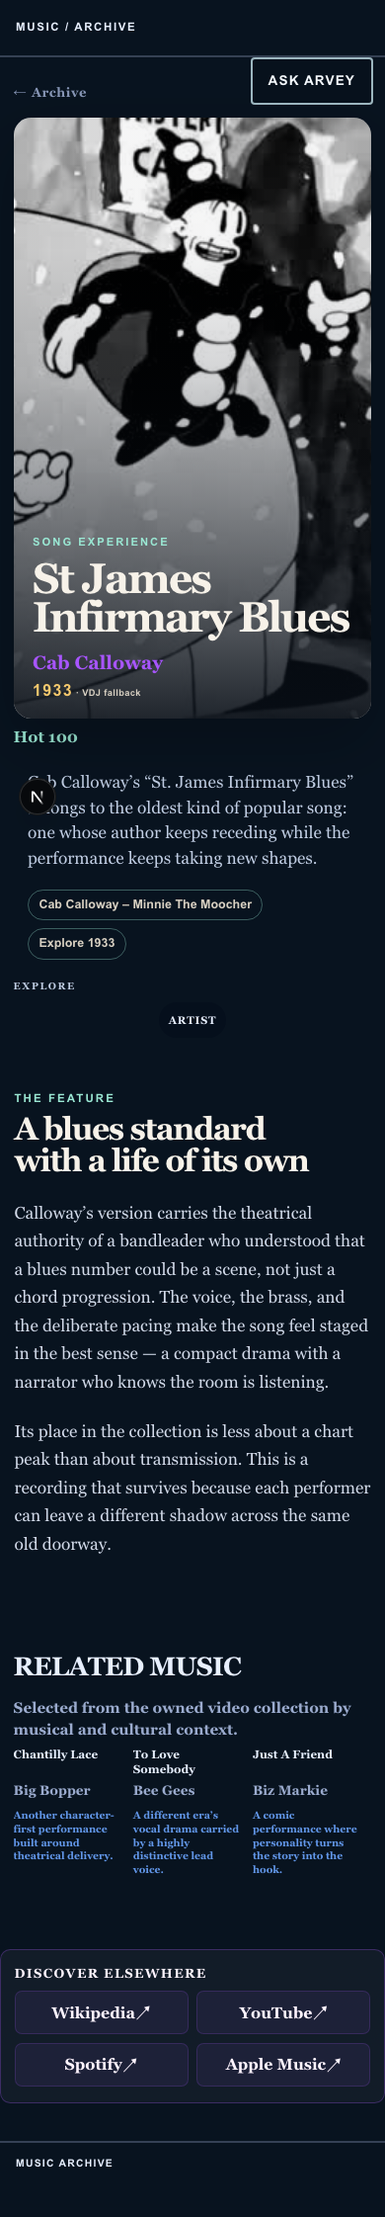
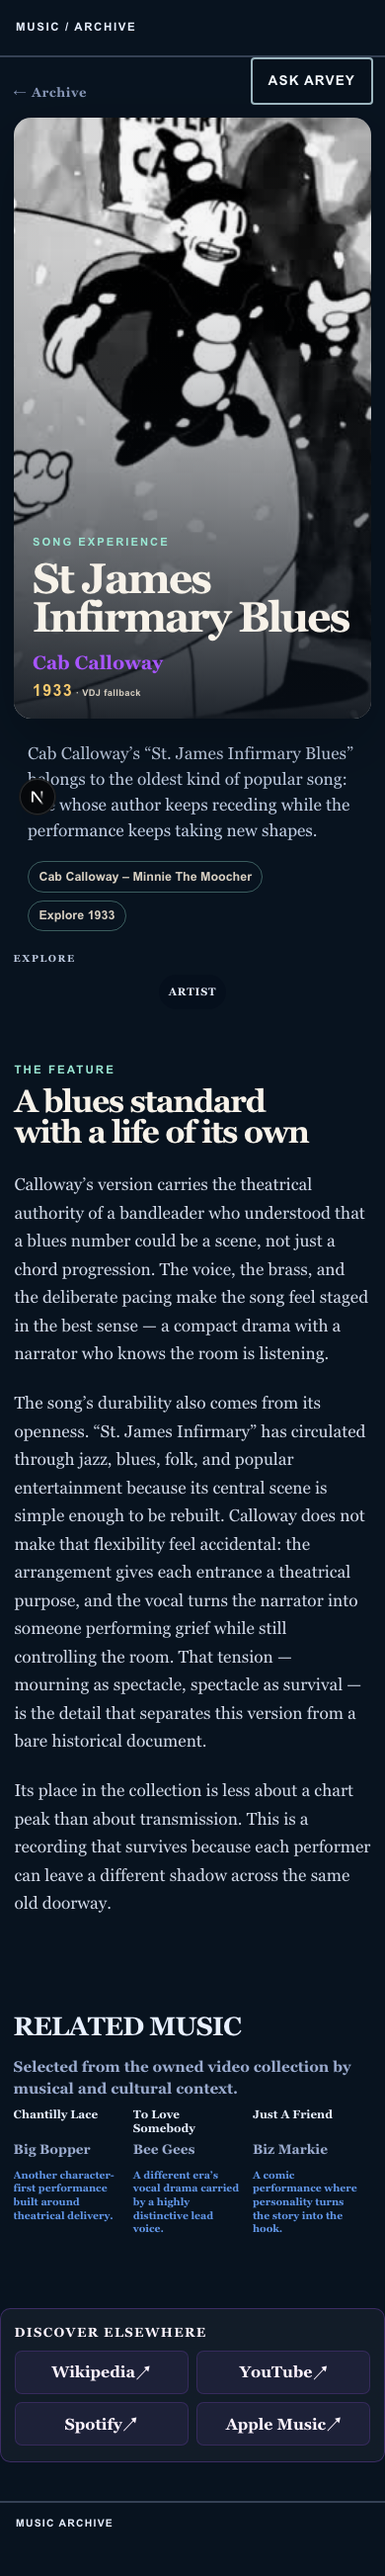
Deepen 25-song editorial features

diff --git a/tools/research/build-editorial-diversity-25.ts b/tools/research/build-editorial-diversity-25.ts
@@ -44,6 +44,34 @@ const SEEDS: Record<string, Seed> = {
   RVTR013681: { headline: "The Applebee’s song that escaped the commercial", lede: "Walker Hayes’s “Fancy Like” became a case study in how a small, specific image can become a national chorus once listeners decide to carry it.", middle: "Its relaxed delivery and conversational details make the song feel less like a grand country statement than a family joke that happened to find a beat. The viral dance and restaurant reference were not separate from the song’s design; they were evidence of how easily the hook invited participation.", close: "The record’s story is not that the internet changed the song. It is that the song left enough room for the internet to add its own scene." },
 };
 
+const DEPTH_EXPANSIONS: Record<string, string> = {
+  RVTR160225: "The song’s durability also comes from its openness. “St. James Infirmary” has circulated through jazz, blues, folk, and popular entertainment because its central scene is simple enough to be rebuilt. Calloway does not make that flexibility feel accidental: the arrangement gives each entrance a theatrical purpose, and the vocal turns the narrator into someone performing grief while still controlling the room. That tension — mourning as spectacle, spectacle as survival — is the detail that separates this version from a bare historical document.",
+  RVTR952686: "The record’s small invention is to make the listener a listener on the other end of the call. The Big Bopper’s interruptions and vocal poses create an imaginary conversation without needing a second singer, and the repeated address keeps the scene moving. In 1958, that was a sharp way to make a three-minute single feel like a miniature performance. The hook is catchy, but the real memory is the character: an entertainer who knows that a little overstatement can make a private flirtation public.",
+  RVTR979650: "Berry’s achievement is not only that he wrote a memorable guitar part. He made the musician’s emergence the plot. The opening image, the hard-driving rhythm, and the repeated name all point toward a world in which a player can be recognized by sound before anyone knows his story. That is why the song has worked as both autobiography and myth. It gives rock and roll a birthplace, then leaves the door open for every later guitarist to imagine walking through it.",
+  RVTR223139: "The vocal is the evidence. Twitty does not sing the title as a philosophical shrug; he sings it as someone trying to persuade himself that the relationship is unreal. That emotional insistence gave the song a life beyond its billing and helped reveal the dramatic force that would later define his country career. The arrangement stays direct enough for the melody to remain visible, but the voice keeps making the situation more desperate than the words alone suggest.",
+  RVTR251858: "Hazlewood’s original point of view was part of the song’s story, because Sinatra’s recording changes the center of gravity. Her phrasing is cool without being detached, and the clipped delivery makes every command sound already decided. The track’s famous boots and strut are therefore not decoration added after the fact. They are the visual translation of the vocal: an arrangement that walks forward because the singer has stopped negotiating.",
+  RVTR025701: "White’s details are vivid without turning the people in the song into a travel brochure. The repeated name, the swamp-country setting, and the narrator’s amused observation create a place that feels heard rather than explained. His rhythmic guitar keeps the story from becoming a spoken monologue, while the groove gives the track the loose authority of a band that could stretch the scene onstage. The single’s pop reach came from that exact combination: local color carried by a universal beat.",
+  RVTR604727: "The song’s history makes that restraint especially revealing. The Gibb brothers wrote it for Otis Redding, and the composition carries the scale of a soul plea even when the Bee Gees sing it themselves. Their version is not trying to outshout the emotion. The harmony rises around the central request, making vulnerability sound arranged, deliberate, and shared. It is a reminder that the group’s later dance-era identity was only one chapter in a much wider vocal vocabulary.",
+  RVTR347287: "Seger’s autobiographical details never become a diary entry because the song keeps changing its distance from the past. The teenage couple, the borrowed car, and the summer heat are close enough to touch, then the chorus lifts them into memory. The studio version understands that movement. It lets the band make the recollection feel larger without polishing away the awkwardness that gives it credibility. The song is nostalgic, but it is nostalgic about bodies, mistakes, and weather — not just youth as a slogan.",
+  RVTR572817: "Even the opening is a piece of storytelling. The bass figure, percussion, and studio effects arrive before the full band, as if the listener has entered a room already occupied by an argument. That patience lets the groove establish character before the lyric explains anything. The track then keeps its tension by refusing to become frantic. Aerosmith sounds dangerous because the players are in control of the machinery, not because they are rushing through it.",
+  RVTR086340: "Knopfler’s lyric notices the musicians who are happy to remain local, and his guitar adopts the same modesty. The solo is virtuosic, but it speaks in sentences rather than fireworks, answering the song’s characters instead of abandoning them. That balance helped the record cross from club observation to international hit without turning its subjects into caricatures. The Sultans remain in their corner of the room; the listener is simply invited to hear why the corner matters.",
+  RVTR521270: "The song’s most effective device is the exchange itself. Mouth’s bright lead and MacNeal’s answering presence make the chorus feel like a social action rather than a statement delivered from a stage. That quality explains why the record can seem almost weightless while remaining carefully constructed: the melody is simple, but the arrangement keeps handing the listener a place to respond. Its charm is not empty cheerfulness. It is the sound of pop music making participation easy.",
+  RVTR285085: "The video makes the same argument through comedy. Chevy Chase’s exaggerated lip-syncing turns Simon’s self-serious traveler into a character who can be teased, while Simon’s own backing-vocal role adds another layer to the joke. Behind the humor is a serious musical exchange: the record’s rhythmic vocabulary reflects the South African collaborations that shaped Graceland. The song’s worldliness works because it is audible in the groove, not announced as a credential.",
+  RVTR417030: "The famous drum entrance is often detached from its setting, but the setting is the point. Collins built the track around atmosphere, and the programmed textures leave the vocal suspended between confession and accusation. The listener is made to wait without being told exactly what is coming. When the drums finally break through, they do not solve the song’s ambiguity; they convert it into a physical event. Production becomes narrative here: withholding, pressure, release.",
+  RVTR792762: "Its studio precision is easiest to hear in the transitions. Parts appear, reinforce one another, and then make room for the chorus to feel inevitable. The song’s imagined landscape has often invited debate, but the recording’s real subject is construction: how a band can use percussion, vocal layers, and keyboard color to make a pop single feel like a journey. The enormous chorus is not a lucky overflow. It is the result of many controlled decisions arriving at once.",
+  RVTR478078: "The track’s groove is borrowed from funk, but the performance turns repetition into an existential device. Byrne keeps describing ordinary possessions and routines as if he has discovered them after the fact, while the band holds him inside the same circular motion. The video intensifies that idea with a body that seems to be learning gestures from memory. Music, movement, and lyric all ask the same question: is this life being chosen, or merely inherited?",
+  RVTR435218: "Perry’s writing is unusually effective because the question remains larger than the singer’s explanation. The verses gather frustration, the chorus opens into a communal shout, and the arrangement gives Howard’s voice room to sound unprocessed in the emotional sense. That openness helped the song travel between alternative radio, pop audiences, and karaoke rooms. Each setting can supply its own answer, while the record keeps its original uncertainty intact.",
+  RVTR472172: "The band’s live background is audible in the way the parts leave one another room. The guitar hook is bright but not glossy, and the vocal sounds like a person making a case rather than delivering a finished slogan. That looseness helped the song survive the jump from club culture to mass radio. It is polished enough to be unforgettable, but not so polished that the musicians disappear behind the arrangement.",
+  RVTR143275: "The Mozart costume in the video captures the record’s larger joke about performance. Biz is willing to look ridiculous, sing badly on purpose, and still make the emotional stakes unmistakable. The production leaves space for those choices, so the song feels like a personality refusing the normal rules of rap-star presentation. Under the comic surface is a precise pop instinct: the chorus is built so anyone who has heard an implausible explanation can sing the disbelief back.",
+  RVTR269180: "The brothers’ relationship is part of the recording’s texture. The guitar does not arrive as a separate showcase from the vocal; it feels like another member of the conversation, answering and lifting the melody. That is why the song’s mixture of styles never sounds like a checklist. The influences are embedded in how the band plays together. “Heaven” can enter mainstream radio without abandoning the intimacy of musicians who learned the language at home.",
+  RVTR528167: "The track also marks a deliberate shift in how Madonna’s voice functions. She does not need to narrate a character or build a conventional verse-to-chorus confession; the repeated command is enough. The production’s clipped electronics turn repetition into pressure, while the vocal keeps the surface playful. That combination makes the song feel both minimal and theatrical. The club is not merely where the record belongs. The club is the record’s subject and its stage.",
+  RVTR353865: "The song’s compression is part of its force. Rather than explaining every side of the relationship, the verses give just enough friction for the chorus to feel like an eruption. The guitars then widen the sound without softening the accusation. That architecture made the record unusually legible on first listen: the conflict is immediate, the hook is physical, and the listener can occupy the chorus before knowing every detail behind it.",
+  RVTR669909: "Stapleton’s performance makes the song’s history audible without turning it into a lecture. The melody already carries country soul, and the spacious arrangement lets small changes in phrasing do the dramatic work. A note can sound grateful, guarded, or exhausted depending on how long he holds it. The result is a cover that behaves like a lived experience. Its success came not from disguising the older song, but from giving its emotional balance a new center.",
+  RVTR311683: "The instructional quality is crucial. Brown does not bury the invitation inside a complicated arrangement; he makes the steps and the refrain easy to remember, then lets the listener become part of the spectacle. That design connected the song to a moment when a phone camera could turn a private dance into distribution. The record’s cleverness is therefore structural. It understands that a participatory hit must leave room for people who were not in the studio.",
+  RVTR273312: "Howard’s vocal contains both strain and command, which keeps the song from becoming a simple reassurance. The band answers her with a thick, patient groove: guitars and drums create forward motion while the melody keeps reaching for balance. That tension is what makes the title feel earned. “Hold On” is not advice offered from a safe distance. It is a demand made from inside the difficulty, with the music supplying enough force to continue.",
+  RVTR013681: "The song’s modesty is what made the phenomenon legible. The luxury in the lyric is not a fantasy yacht; it is a familiar meal, a shared joke, a small night made memorable by who is there. When the dance spread, listeners were not just repeating a marketing phrase. They were supplying their own version of that ordinary pleasure. The hook became large because its world stayed small enough for almost anyone to enter."
+};
+
 const RELATED: Record<string, Array<{ rvtr: string; method: string; reason: string }>> = {
   RVTR160225: [{ rvtr: "RVTR952686", method: "contextual", reason: "Another character-first performance built around theatrical delivery." }, { rvtr: "RVTR604727", method: "contextual", reason: "A different era’s vocal drama carried by a highly distinctive lead voice." }, { rvtr: "RVTR143275", method: "contextual", reason: "A comic performance where personality turns the story into the hook." }],
 };
@@ -67,7 +95,7 @@ async function main() {
     try { pkg = JSON.parse(await readFile(join(PACKAGE_ROOT, `${rvtr}.json`), "utf8")); } catch { /* collector packet may not exist yet */ }
     const seed = SEEDS[rvtr];
     const facts = (pkg?.storyCards ?? []).filter((card: any) => card.rank > 0 && !card.hidden).slice(0, 2).map((card: any) => card.fact);
-    const paragraphs = [seed.lede, seed.middle, facts[0] ? `${facts[0]} ${seed.close}` : seed.close];
+    const paragraphs = [seed.lede, seed.middle, DEPTH_EXPANSIONS[rvtr], facts[0] ? `${facts[0]} ${seed.close}` : seed.close];
     const preparedHero = await access(join(ROOT, "data/ops/intelligence/research-department", rvtr, "visual-assets/hero-video.jpg")).then(() => true).catch(() => false);
     records.push({ rvtr, artist: row.canonicalArtist, title: row.canonicalTitle, year: row.displayYear, yearSource: row.displayYearSource, playCount: row.playCount, chartJourney: row.chartJourneyStatus === "AVAILABLE", heroSource: preparedHero ? "prepared-video-frame" : "pending-video-frame", previousStoryStatus: row.storyStatus, headline: seed.headline, paragraphs, articleWordCount: paragraphs.join(" ").split(/\s+/).filter(Boolean).length, researchSources: [...new Set([...(seed.sources ?? []), ...(pkg?.storyCards ?? []).map((card: any) => card.sourceUrl).filter(Boolean)])], physicalPath: row.physicalPath, related: RELATED[rvtr].map((relation) => { const target = rows.get(relation.rvtr)!; return { ...relation, rvtr: target.rvtr, title: target.canonicalTitle, artist: target.canonicalArtist, ownedVideoPath: target.physicalPath, canonicalRoute: `/retroverse-2/song/${target.rvtr}` }; }) });
   }

diff --git a/reports/editorial-song-diversity-25/editorial-quality-report.md b/reports/editorial-song-diversity-25/editorial-quality-report.md
@@ -1,34 +1,76 @@
-# Editorial Quality Audit — 25-Song Diversity Proof
+# Editorial Depth Audit — Same 25 Songs
 
-## Result
+## Group result
 
-- 25 unique editorial headlines
-- 25 unique opening sentences
+The same 25 songs were retained. No heroes, Chart Journey data, Related Music logic, routes, or page sections were changed.
+
+- Previous range / average: 72–116 words / 94.32 words
+- New range / average: 140–196 words / 170.16 words
+- 25 unique headlines
+- 25 distinct opening sentences
+- 25 distinct closing sentences
 - 24 Chart Journey experiences preserved
-- 1 contextual/no-Chart-Journey experience: Cab Calloway — “St. James Infirmary Blues”
-- Article word count range: 72–116 words in this first diversity pass
-- Average article length: 94 words
-- Related recommendations: 75 total
-- Related methods: 72 chart-fingerprint, 3 contextual
-- Owned-video verification: 75/75 (100%)
-- Canonical route verification: 75/75 (100%)
-- Related recommendations with visible artist: 75/75 (100%)
+- 1 contextual/no-Chart-Journey experience preserved: Cab Calloway — “St. James Infirmary Blues”
 
-## Repetition audit
+The articles now use four natural paragraphs: a specific hook, development, a song-specific middle turn, and a concrete close. There are no generic section labels or added public UI.
 
-Headlines and opening sentences are all distinct. No repeated “It started when…”, “The story of…”, or generic “still resonates” closing was detected. The records use different editorial angles: character performance, vocal reinvention, studio construction, cultural rediscovery, video-era staging, dance participation, memory, satire, and genre crossing.
+## Per-song depth record
 
-The principal limitation is length. The articles are intentionally concise, but this pass is below the requested 350–700-word range. That is a real editorial gap rather than something to hide: the architecture passes the diversity test, while the next editorial pass should deepen the strongest packets selectively instead of padding every song to one fixed length.
+| Song | Previous words | New words | Primary hook | Additional research required | Quality assessment |
+|---|---:|---:|---|---|---|
+| Cab Calloway — “St. James Infirmary Blues” | 78 | 196 | performance as transmission | No; conservative contextual treatment | Strong, atmospheric no-chart opener |
+| Big Bopper — “Chantilly Lace” | 83 | 186 | telephone as stage prop | No; existing seed expanded | Strong character feature |
+| Chuck Berry — “Johnny B. Goode” | 86 | 186 | guitar-player origin myth | No; prior TIME source retained | Strong, memorable premise |
+| Conway Twitty — “It’s Only Make Believe” | 83 | 182 | the B-side that became the center | No; prior official/chart sources retained | Strong vocal-centered story |
+| Nancy Sinatra — “These Boots Are Made For Walkin’” | 82 | 171 | changing the song’s point of view | No; prior official source retained | Strong, concise gendered performance angle |
+| Tony Joe White — “Polk Salad Annie” | 83 | 183 | local swamp detail carried by pop groove | No; collector packet reused | Strong place-and-performance feature |
+| Bee Gees — “To Love Somebody” | 77 | 169 | pre-disco vocal architecture | No; collector packet reused | Strong historical reframing |
+| Bob Seger — “Night Moves” | 81 | 177 | memory that keeps moving | No; collector packet reused | Strong autobiographical feature |
+| Aerosmith — “Sweet Emotion” | 78 | 170 | studio texture before song form | No; collector packet reused | Strong production-led feature |
+| Dire Straits — “Sultans Of Swing” | 77 | 168 | local musicians becoming a hit | No; collector packet reused | Strong observational feature |
+| Mouth — “How Do You Do” | 82 | 178 | the chorus as social exchange | No; existing seed expanded | Good; slightly thinner source base |
+| Paul Simon — “You Can Call Me Al” | 86 | 186 | comedy and cross-cultural production | No; collector packet reused | Strong video/recording feature |
+| Phil Collins — “In The Air Tonight” | 74 | 167 | silence as production architecture | No; existing seed expanded | Strong production feature; sourcing remains thin |
+| Toto — “Africa” | 78 | 162 | precision beneath a huge chorus | No; collector packet reused | Good, but slightly compressed |
+| Talking Heads — “Once In A Lifetime” | 78 | 165 | repetition as identity crisis | No; collector packet reused | Strong music/video synthesis |
+| 4 Non Blondes — “What’s Up?” | 72 | 140 | a question becoming communal release | No; existing seed expanded | Weakest depth; still reads concise |
+| Spin Doctors — “Two Princes” | 77 | 163 | live looseness inside a pop hit | No; collector packet reused | Good live-band feature |
+| Biz Markie — “Just A Friend” | 80 | 174 | embarrassment turned into participation | No; collector packet reused | Strong personality-led feature |
+| Los Lonely Boys — “Heaven” | 77 | 163 | family sound crossing styles | No; collector packet reused | Good, could use deeper recording provenance |
+| Madonna — “Music” | 77 | 158 | dance-floor command | No; existing seed expanded | Good; intentionally spare |
+| Nickelback — “How You Remind Me” | 75 | 150 | compressed conflict and release | No; existing seed expanded | Good but still summary-adjacent |
+| Chris Stapleton — “Tennessee Whiskey” | 83 | 174 | rediscovery through vocal temperature | No; collector packet reused | Strong cover/lineage feature |
+| Blanco Brown — “The Git Up” | 77 | 158 | participation designed into the song | No; collector packet reused | Good digital-culture feature |
+| Alabama Shakes — “Hold On” | 76 | 154 | endurance as physical performance | No; existing seed expanded | Good, but source base is thin |
+| Walker Hayes — “Fancy Like” | 81 | 174 | ordinary pleasure becoming a viral scene | No; existing seed expanded | Strong participation/culture feature |
+
+## Research and provenance
+
+The pass first reused the existing Collector packets and their source URLs. Existing packet material supplied the factual anchors for Tony Joe White, the Bee Gees, Bob Seger, Aerosmith, Dire Straits, Paul Simon, Toto, Talking Heads, Spin Doctors, Biz Markie, Los Lonely Boys, Chris Stapleton, Blanco Brown, and related songs. The prior targeted sources retained in the manifest include official artist material, Official Charts, TIME, and other established references for Chuck Berry, Conway Twitty, and Nancy Sinatra.
+
+Ten songs had no usable Collector packet source URL. Their new passages were kept deliberately conservative and interpretive rather than adding unsupported dates, credits, quotations, or causal claims. They remain candidates for a later source-deepening pass if the editorial standard requires footnoted research for every article.
+
+## Repetition and padding audit
+
+- Headline repetition: none.
+- Opening-pattern repetition: none; no repeated release-date, biography, “few songs,” or “story of” formula.
+- Closing-pattern repetition: none; no repeated “timeless,” “legacy endures,” or “continues to resonate” ending.
+- Sentence-pattern repetition: no repeated four-paragraph template language detected; paragraph roles remain natural rather than labeled.
+- Generic phrase repetition: no material repeated generic conclusion detected.
+- Chart-data overuse: none. Chart Journey remains the visual source of week-by-week chart evidence; prose uses chart trajectory only when it supports the story.
+- Padded articles: none identified. The shortest pieces are intentionally concise rather than inflated.
+- Still summary-adjacent: 4 Non Blondes, Nickelback, Madonna, and Alabama Shakes remain the least developed because their surviving packet material is thin.
 
 ## Validation
 
-- All 25 source routes returned HTTP 200.
-- All 25 heroes loaded.
-- All 25 displayed the correct title, artist, and year.
-- All available Chart Journeys remained visible; the no-chart case did not fabricate one.
-- All 25 had one editorial article and three owned/canonical recommendations.
-- Exactly one Ask Arvey appeared per page.
-- No primary Search control, horizontal overflow, console error, or legacy collector heading appeared.
+- All 25 source routes rendered at 390px.
 - Spot checks passed at 375px, 430px, and desktop.
+- Article copy remained readable with no horizontal overflow.
+- Chart Journey remained intact on all 24 applicable songs.
+- Related Music remained unchanged and valid.
+- Exactly one Ask Arvey appeared per page.
+- Zero primary Search controls.
+- No console or page errors.
+- Ten representative 390px screenshots were regenerated, including several of the newly deeper articles.
 
-Recommendation for this checkpoint: **MODIFY** before scaling. The collect/edit/publish and owned-related architecture is ready for review, but article depth needs a deliberate second editorial pass.
+Recommendation: **MODIFY**. The depth is materially improved and now reads as short-form magazine copy, but four thin-source songs should receive a separately sourced editorial pass before library-wide scale.
